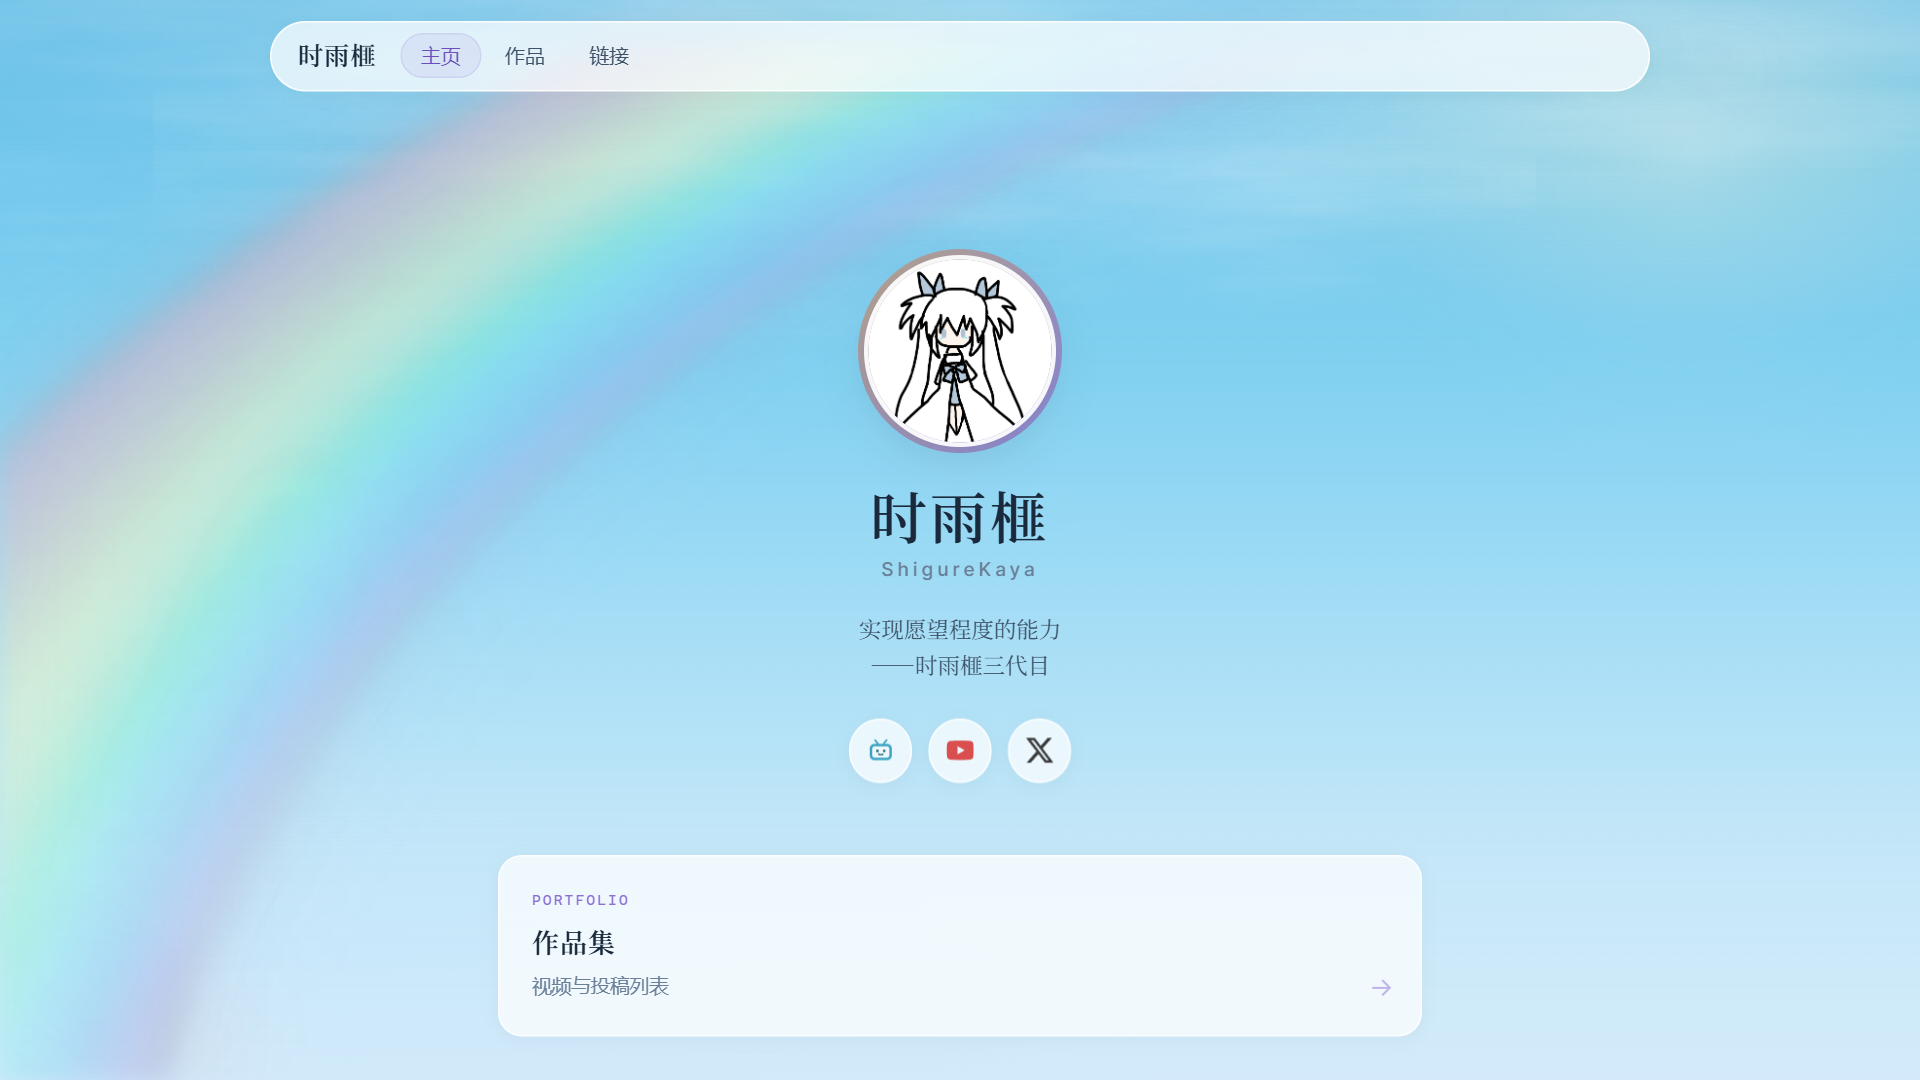
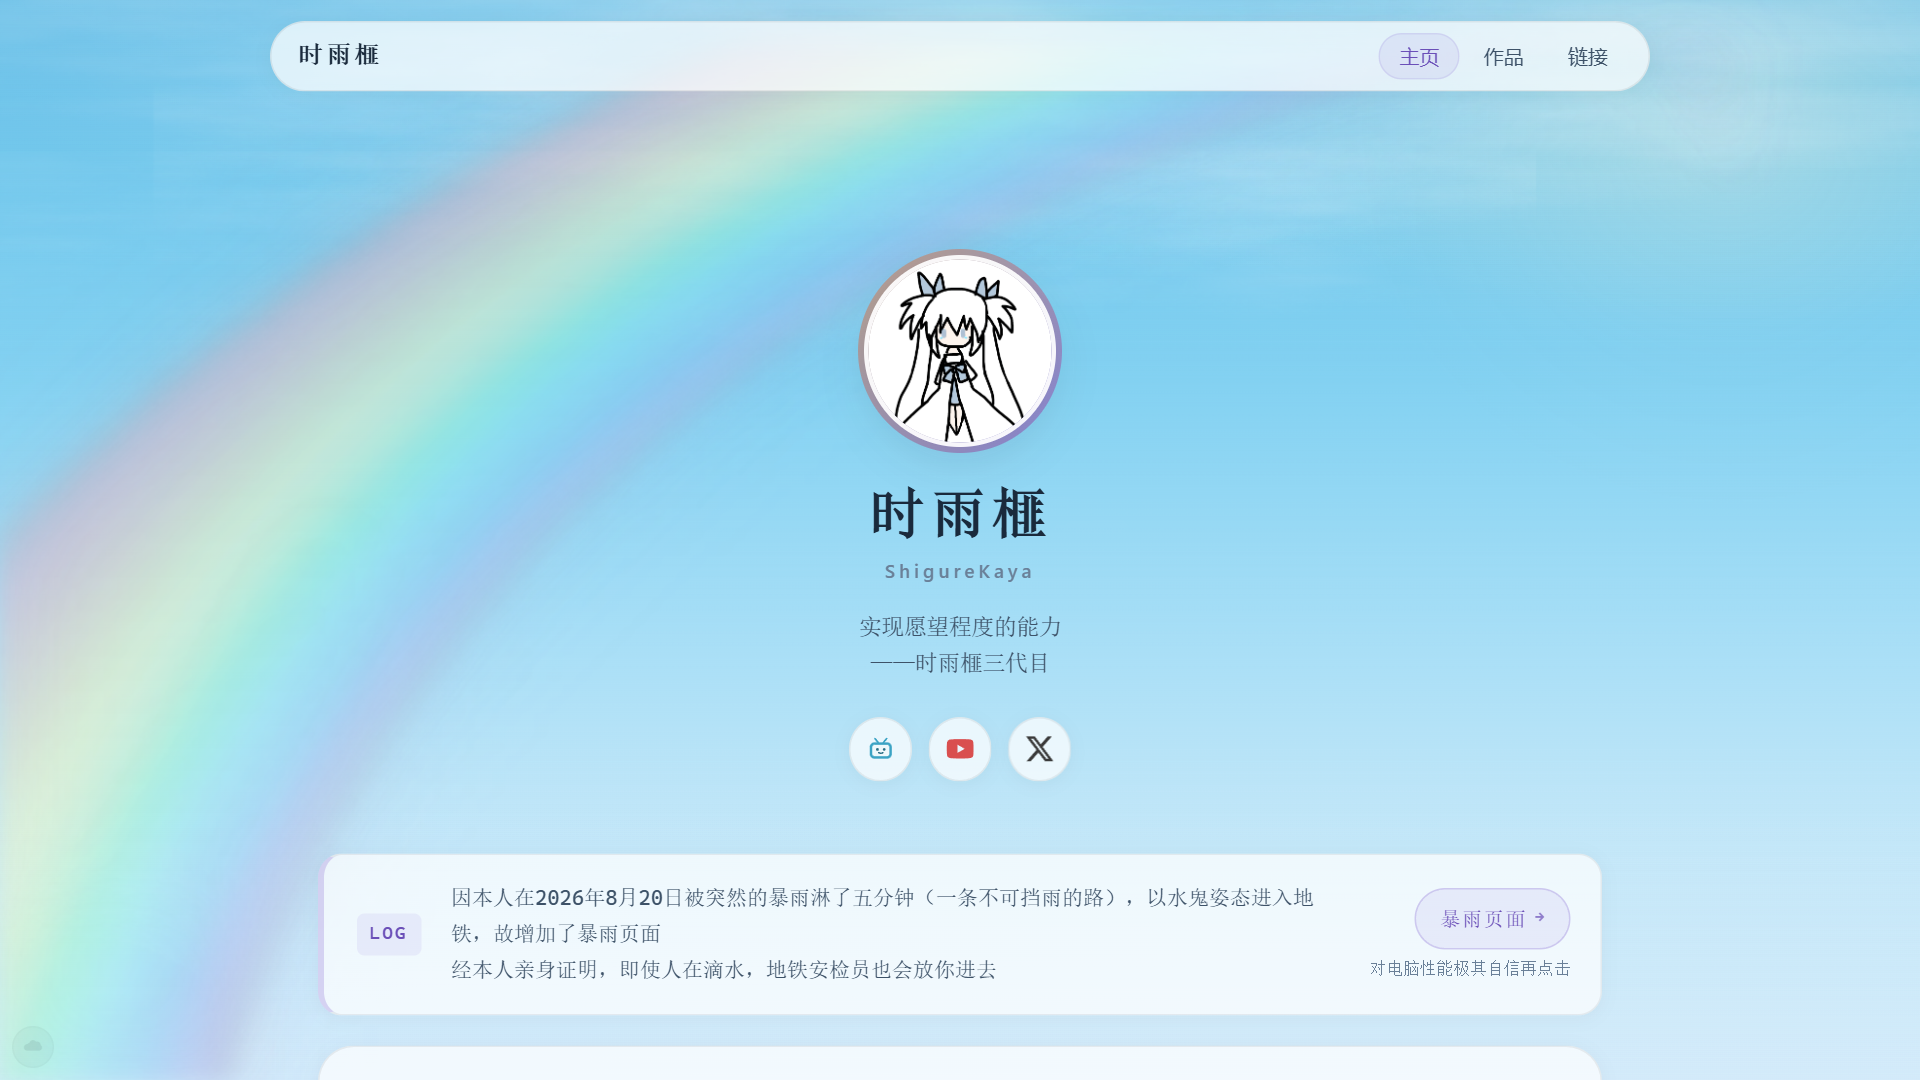
Fix kaya-boot: expose window.Kaya and parallel script preload

diff --git a/js/kaya-boot.js b/js/kaya-boot.js
@@ -2,7 +2,7 @@
  * 按页面 + 天气模式按需加载脚本（defer 入口）
  */
 (() => {
-  const V = "202608241400";
+  const V = "202608241410";
 
   function loadScript(src) {
     return new Promise((resolve, reject) => {
@@ -14,10 +14,10 @@
     });
   }
 
-  async function loadSequential(urls) {
-    for (const url of urls) {
-      await loadScript(url);
-    }
+  /** 并行下载，按 urls 顺序 await，避免瀑布式串行拖慢首屏 */
+  async function loadOrdered(urls) {
+    const jobs = urls.map((url) => loadScript(url));
+    for (const job of jobs) await job;
   }
 
   function loadWeatherCss() {
@@ -79,13 +79,18 @@
     }
     urls.push(`js/main.js?v=${V}`);
 
-    await loadSequential(urls);
+    await loadOrdered(urls);
+
+    const api = window.Kaya;
+    if (!api) {
+      throw new Error("window.Kaya missing after main.js load");
+    }
 
     const init = {
-      home: () => window.Kaya.initHome(),
-      works: () => window.Kaya.initWorks(),
-      links: () => window.Kaya.initLinks(),
-      mv: () => window.Kaya.initMvMaterials(),
+      home: () => api.initHome(),
+      works: () => api.initWorks(),
+      links: () => api.initLinks(),
+      mv: () => api.initMvMaterials(),
     }[page];
 
     if (!init) {

diff --git a/index.html b/index.html
@@ -1,4 +1,4 @@
-<!DOCTYPE html>
+<!DOCTYPE html>
 <html lang="zh-CN">
 <head>
   <meta charset="UTF-8" />
@@ -7,7 +7,7 @@
   <title>时雨榧</title>
   <meta name="description" content="时雨榧 — 个人主页" />
   <meta name="theme-color" content="#f7f8fc" />
-  <link rel="stylesheet" href="css/style-core.css?v=202608241400" />
+  <link rel="stylesheet" href="css/style-core.css?v=202608241410" />
   <link rel="icon" href="assets/images/avatar.jpg" />
   <noscript><style>.page-home .site-header,.page-home .profile-avatar,.page-home .profile-name,.page-home .profile-roman,.page-home .profile-sign,.page-home .social-row,.page-home .intro-panel,.page-home .site-log,.page-home .home-cards,.page-home .site-footer{opacity:1!important}</style></noscript>
 </head>
@@ -98,7 +98,7 @@
     <p class="site-footer__motto">放弃幻想，开始战斗</p>
   </footer>
 
-  <script src="js/kaya-rain-mode.js?v=202608241400" defer></script>
-  <script src="js/kaya-boot.js?v=202608241400" defer></script>
+  <script src="js/kaya-rain-mode.js?v=202608241410" defer></script>
+  <script src="js/kaya-boot.js?v=202608241410" defer></script>
 </body>
 </html>

diff --git a/links.html b/links.html
@@ -1,4 +1,4 @@
-<!DOCTYPE html>
+<!DOCTYPE html>
 <html lang="zh-CN">
 <head>
   <meta charset="UTF-8" />
@@ -6,7 +6,7 @@
   <base href="/" />
   <title>链接 · 时雨榧</title>
   <meta name="theme-color" content="#f7f8fc" />
-  <link rel="stylesheet" href="css/style-core.css?v=202608241400" />
+  <link rel="stylesheet" href="css/style-core.css?v=202608241410" />
   <link rel="icon" href="assets/images/avatar.jpg" />
 </head>
 <body class="page-links" data-kaya-page="links">
@@ -42,7 +42,7 @@
     <p class="site-footer__motto">放弃幻想，开始战斗</p>
   </footer>
 
-  <script src="js/kaya-rain-mode.js?v=202608241400" defer></script>
-  <script src="js/kaya-boot.js?v=202608241400" defer></script>
+  <script src="js/kaya-rain-mode.js?v=202608241410" defer></script>
+  <script src="js/kaya-boot.js?v=202608241410" defer></script>
 </body>
 </html>

diff --git a/works.html b/works.html
@@ -1,4 +1,4 @@
-<!DOCTYPE html>
+<!DOCTYPE html>
 <html lang="zh-CN">
 <head>
   <meta charset="UTF-8" />
@@ -6,7 +6,7 @@
   <base href="/" />
   <title>作品 · 时雨榧</title>
   <meta name="theme-color" content="#f7f8fc" />
-  <link rel="stylesheet" href="css/style-core.css?v=202608241400" />
+  <link rel="stylesheet" href="css/style-core.css?v=202608241410" />
   <link rel="icon" href="assets/images/avatar.jpg" />
 </head>
 <body class="page-works" data-kaya-page="works">
@@ -42,7 +42,7 @@
     <p class="site-footer__motto">放弃幻想，开始战斗</p>
   </footer>
 
-  <script src="js/kaya-rain-mode.js?v=202608241400" defer></script>
-  <script src="js/kaya-boot.js?v=202608241400" defer></script>
+  <script src="js/kaya-rain-mode.js?v=202608241410" defer></script>
+  <script src="js/kaya-boot.js?v=202608241410" defer></script>
 </body>
 </html>

diff --git a/mv-materials.html b/mv-materials.html
@@ -1,4 +1,4 @@
-<!DOCTYPE html>
+<!DOCTYPE html>
 <html lang="zh-CN">
 <head>
   <meta charset="UTF-8" />
@@ -6,7 +6,7 @@
   <base href="/" />
   <title>MV 素材 · 时雨榧</title>
   <meta name="theme-color" content="#f7f8fc" />
-  <link rel="stylesheet" href="css/style-core.css?v=202608241400" />
+  <link rel="stylesheet" href="css/style-core.css?v=202608241410" />
   <link rel="icon" href="assets/images/avatar.jpg" />
 </head>
 <body class="page-mv" data-kaya-page="mv">
@@ -51,7 +51,7 @@
     <p class="site-footer__motto">放弃幻想，开始战斗</p>
   </footer>
 
-  <script src="js/kaya-rain-mode.js?v=202608241400" defer></script>
-  <script src="js/kaya-boot.js?v=202608241400" defer></script>
+  <script src="js/kaya-rain-mode.js?v=202608241410" defer></script>
+  <script src="js/kaya-boot.js?v=202608241410" defer></script>
 </body>
 </html>

diff --git a/mv-materials/index.html b/mv-materials/index.html
@@ -1,4 +1,4 @@
-<!DOCTYPE html>
+<!DOCTYPE html>
 <html lang="zh-CN">
 <head>
   <meta charset="UTF-8" />
@@ -6,7 +6,7 @@
   <base href="/" />
   <title>MV 素材 · 时雨榧</title>
   <meta name="theme-color" content="#f7f8fc" />
-  <link rel="stylesheet" href="css/style-core.css?v=202608241400" />
+  <link rel="stylesheet" href="css/style-core.css?v=202608241410" />
   <link rel="icon" href="assets/images/avatar.jpg" />
 </head>
 <body class="page-mv" data-kaya-page="mv">
@@ -51,7 +51,7 @@
     <p class="site-footer__motto">放弃幻想，开始战斗</p>
   </footer>
 
-  <script src="js/kaya-rain-mode.js?v=202608241400" defer></script>
-  <script src="js/kaya-boot.js?v=202608241400" defer></script>
+  <script src="js/kaya-rain-mode.js?v=202608241410" defer></script>
+  <script src="js/kaya-boot.js?v=202608241410" defer></script>
 </body>
 </html>

diff --git a/js/main.js b/js/main.js
@@ -1590,3 +1590,6 @@ const Kaya = (() => {
 
   return { initHome, initWorks, initLinks, initMvMaterials, data };
 })();
+
+/* kaya-boot 通过 window.Kaya 调用；const 不会挂到 window */
+window.Kaya = Kaya;

diff --git a/fuyuu/admin/index.html b/fuyuu/admin/index.html
@@ -1,4 +1,4 @@
-<!DOCTYPE html>
+<!DOCTYPE html>
 <html lang="zh-CN">
 <head>
   <meta charset="UTF-8" />

diff --git a/fuyuu/index.html b/fuyuu/index.html
@@ -1,4 +1,4 @@
-<!DOCTYPE html>
+<!DOCTYPE html>
 <html lang="zh-CN">
 <head>
   <meta charset="UTF-8" />

diff --git a/serve-local.py b/serve-local.py
@@ -11,6 +11,11 @@ from urllib.parse import unquote, urlsplit
 
 ROOT = Path(__file__).resolve().parent
 
+# 本地开发固定地址（文档：docs/local-dev.md）
+LOCAL_HOST = "127.0.0.1"
+LOCAL_PORT = 3000
+LOCAL_BASE_URL = f"http://{LOCAL_HOST}:{LOCAL_PORT}/"
+
 # Map clean paths → files on disk (mirrors Vercel cleanUrls + trailingSlash).
 CLEAN_MAP = {
     "/": "index.html",
@@ -71,12 +76,12 @@ class NoCacheHandler(SimpleHTTPRequestHandler):
 
 def main() -> None:
     parser = argparse.ArgumentParser()
-    parser.add_argument("--port", type=int, default=3000)
-    parser.add_argument("--host", default="127.0.0.1", help="bind address (default: 127.0.0.1)")
+    parser.add_argument("--port", type=int, default=LOCAL_PORT)
+    parser.add_argument("--host", default=LOCAL_HOST, help=f"bind address (default: {LOCAL_HOST})")
     args = parser.parse_args()
     handler = functools.partial(NoCacheHandler, directory=str(ROOT))
     server = ThreadingHTTPServer((args.host, args.port), handler)
-    print(f"Serving {ROOT} on http://{args.host}:{args.port}/ (HTML no-store + clean URLs)")
+    print(f"Serving {ROOT} on {LOCAL_BASE_URL if args.host == LOCAL_HOST and args.port == LOCAL_PORT else f'http://{args.host}:{args.port}/'} (HTML no-store + clean URLs)")
     server.serve_forever()
 
 

diff --git a/docs/kaya-assets.md b/docs/kaya-assets.md
@@ -1,0 +1,51 @@
+# 时雨榧站 · 图片资源
+
+站点根路径下的静态图均在 `assets/images/`（URL 前缀 `/assets/images/`）。
+
+## 目录一览
+
+| 目录/文件 | 用途 | 页面 |
+|-----------|------|------|
+| `avatar.jpg` | 头像、favicon | 全站 |
+| `pendant.png` | 挂件（数据里引用） | 主页数据 |
+| `script-en.png` | 开幕液体字底图 | 主页开场 |
+| `script-zh.png` | 中文脚本图（备用） | — |
+| `rainbow-glow.png` | 晴天虹弧贴图 | 晴天背景 |
+| `covers/` | B 站视频封面 `{BVid}.jpg` | `/works/` |
+| `mv-materials/` | MV 原图 `.jpg` | `/mv-materials/` lightbox |
+| `mv-materials/thumbs/` | 列表 WebP 缩略图（原图 80%） | 主页预览、MV 网格 |
+| `video_*.jpg/png` | 历史/备用封面，**线上未引用** | — |
+
+缩略图生成：`npm run mv-thumbs`（依赖 `sharp`）。
+
+## 当前规格与体积（2026-08-24）
+
+### 全站通用
+
+| 文件 | 分辨率 | 体积 |
+|------|--------|------|
+| `avatar.jpg` | 375×375 | 49 KB |
+| `pendant.png` | 420×420 | 127 KB |
+| `script-en.png` | 1400×440 | 134 KB |
+| `rainbow-glow.png` | 1024×682 | 34 KB |
+
+### 作品封面 `covers/`（33 张）
+
+- **合计**：约 **12.8 MB**
+- **单张**：约 **64 KB – 1.25 MB**（平均 **397 KB**）
+- **分辨率**：多为 **1280×720 – 3840×2160**（B 站封面比例不统一）
+- 命名：`{BVid}.jpg`，与 `js/site-data.js` 里 `videos[].bvid` 对应
+
+### MV 素材 `mv-materials/`（18 张原图）
+
+- **原图合计**：约 **6.8 MB**
+- **分辨率**：宽边多为 **1920px**（竖图 1345×1920 – 1920×1920 等）
+- **单张原图**：约 **162 KB – 572 KB**
+
+### MV 缩略图 `mv-materials/thumbs/`（18 张 WebP）
+
+- **合计**：约 **1.9 MB**（较原图约省 **2.9 MB**）
+- **分辨率**：原图 **80%** 等比（例如 1920×1793 → **1536×1434**）
+- **单张**：约 **61 KB – 261 KB**
+
+子目录：`ave/`、`v家/`、`柴郡喵/`、`小黑喵/`、`白/`、`骨/`、`其它/`。

diff --git a/README.md b/README.md
@@ -21,9 +21,12 @@
 
 页面使用绝对路径（如 `/fuyuu/`、`/css/`），**必须从本仓库根目录**起静态服务，不要直接双击 HTML。
 
+本地开发地址见 **[docs/local-dev.md](docs/local-dev.md)**（固定 `127.0.0.1:3000`，不用 `localhost`）。
+
 ```powershell
 cd E:\网站\测试框架\shigure-web
 py -3 .\serve-local.py
+# 或 .\start-local.ps1
 ```
 
 （也可用 `py -3 -m http.server 3000`，但无 clean URL，且 HTML 可能被浏览器缓存旧跳转页；`serve-local.py` 会对 HTML 发 `Cache-Control: no-store`，并支持 `/works/` 等 clean 路径。）
@@ -32,10 +35,13 @@ py -3 .\serve-local.py
 
 | 路径 | 页面 |
 |------|------|
-| http://localhost:3000/ | 时雨榧（主站） |
-| http://localhost:3000/works/ | 作品 |
-| http://localhost:3000/links/ | 链接 |
-| http://localhost:3000/fuyuu/ | 浮游Lev |
+| http://127.0.0.1:3000/ | 时雨榧（主站） |
+| http://127.0.0.1:3000/works/ | 作品 |
+| http://127.0.0.1:3000/links/ | 链接 |
+| http://127.0.0.1:3000/mv-materials/ | MV 素材 |
+| http://127.0.0.1:3000/fuyuu/ | 浮游Lev |
+
+图片资源目录与分辨率见 **[docs/kaya-assets.md](docs/kaya-assets.md)**。
 
 无需 `npm install`；`package.json` 仅用于缩略图脚本（`npm run thumbs`）。线上部署由 Vercel 在推送 `main` 后自动完成。
 
